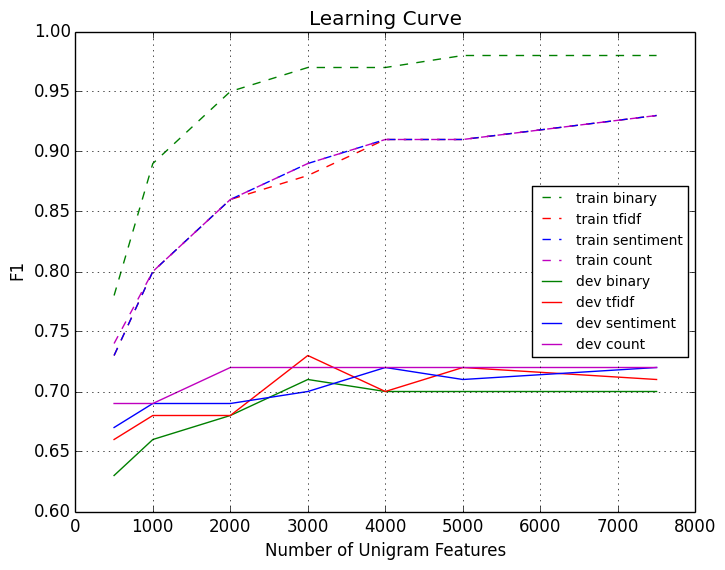
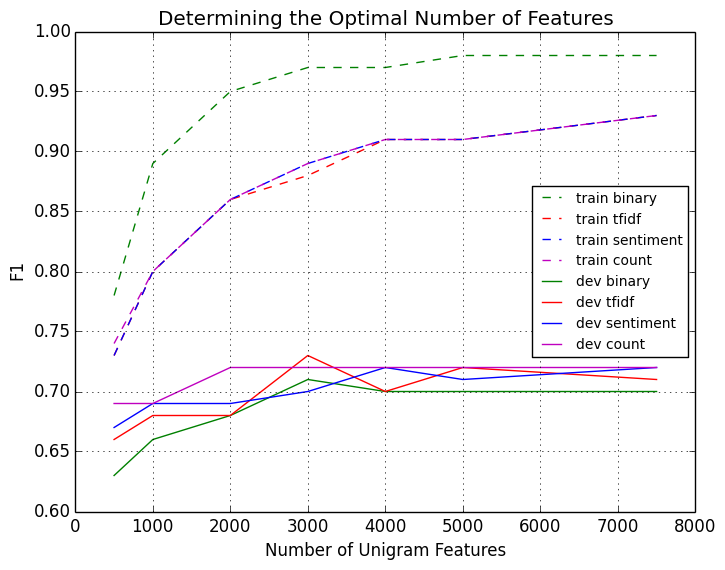
changed title to plot

Changed region(s): [[0.2124, 0.0, 0.8497, 0.0596]]

diff --git a/plots/plot_text_feature_tuning.py b/plots/plot_text_feature_tuning.py
@@ -30,8 +30,8 @@ fontP = FontProperties()
 fontP.set_size('small')
 #, bbox_to_anchor=(0.7,-0.1
 lgd = ax.legend(prop=fontP, loc=5)
-plt.title('Learning Curve')
+plt.title('Determining the Optimal Number of Features')
 plt.xlabel('Number of Unigram Features')
 plt.ylabel('F1')
 ax.grid('on')
-fig.savefig('learningcurve', bbox_extra_artists=(lgd,), bbox_inches='tight')
+fig.savefig('text_feature_tuning', bbox_extra_artists=(lgd,), bbox_inches='tight')
